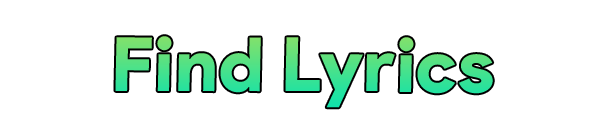
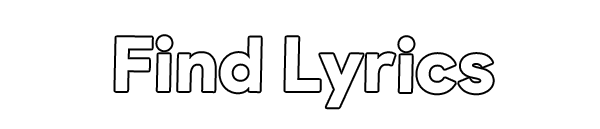
Updated login screen and lyrics header text graphic.

Changed region(s): [[0.18, 0.2791, 0.84, 0.8372]]

diff --git a/client/src/Login.js b/client/src/Login.js
@@ -1,18 +1,23 @@
 import React from "react"
 import { Container } from "react-bootstrap"
+import './Login.css'
 
 const AUTH_URL =
   "https://accounts.spotify.com/authorize?client_id=f4e7fa397aab487c9b0f37079d268b5c&response_type=code&redirect_uri=http://localhost:3000&scope=streaming%20user-read-email%20user-read-private%20user-library-read%20user-library-modify%20user-read-playback-state%20user-modify-playback-state"
 
 export default function Login() {
-  return (
+  return ([
+    <div class="loginText">
+      <h2>A web application that uses Spotify's API to showcase lyrics and other information while listening.</h2>
+      <h3>Built with React and Node.</h3>
+      </div>,
     <Container
       className="d-flex justify-content-center align-items-center"
       style={{ minHeight: "100vh" }}
     >
-      <a className="btn btn-success btn-lg" href={AUTH_URL}>
+      <a className="btn btn-success btn-lg font-weight-bold" href={AUTH_URL}>
         Login With Spotify
       </a>
     </Container>
-  )
+  ])
 }

diff --git a/client/src/Dashboard.js b/client/src/Dashboard.js
@@ -82,7 +82,7 @@ export default function Dashboard({ code }) {
       <div className = "wrapper">
         <div className="lyricsWrap">
           <div className="headerImage">
-            <img src="/images/findlyrics.png" alt=""/>
+            <img src="/images/findlyrics2.png" alt=""/>
           </div>
           <Container className="lyricsContainer border rounded d-flex flex-column py-2 bg-secondary" style={{height: "100vh" }}>
             <div class="topSearch"></div>
@@ -113,7 +113,7 @@ export default function Dashboard({ code }) {
           </Container>
         </div>
         <div className="secondDiv">
-          dsdfsdf
+
         </div>
       </div>
     </div>

diff --git a/client/src/Login.css b/client/src/Login.css
@@ -1,0 +1,9 @@
+.loginText {
+    text-align: center;
+    justify-content: center;
+    color: white;
+    font-weight: 800;
+    font-size: 30px;
+    margin-top: 500px;
+    margin-bottom: -600px;
+}
